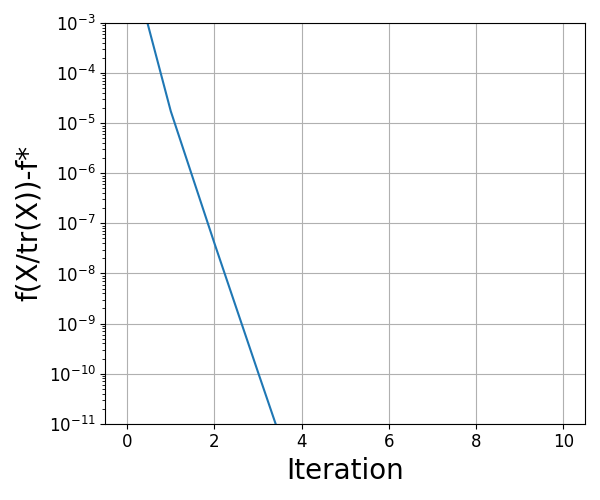
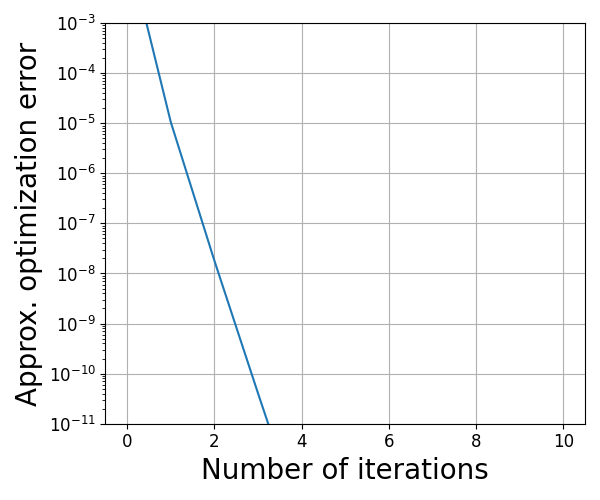
rename the label

Changed region(s): [[0.24, 0.06, 0.48, 0.84], [0.0, 0.09, 0.06, 0.81], [0.33, 0.9, 0.81, 0.96]]

diff --git a/expr_QuantumAugustin.py b/expr_QuantumAugustin.py
@@ -101,8 +101,8 @@ for alpha in alphas:
     # f(X) vs iteration with log-scale y-axis
     # plt.subplot(1, 2, 1)
     plt.plot(iterations, f_values, label=f'f(X), alpha={alpha}')
-    plt.xlabel('Iteration',fontsize=20)
-    plt.ylabel('f(X/tr(X))-f*',fontsize=20)
+    plt.xlabel('Number of iterations',fontsize=20)
+    plt.ylabel('Approx. optimization error',fontsize=20)
     plt.yscale('log')  # Set log scale for y-axis
     plt.ylim(1e-11,1e-3)
     plt.tick_params(axis='both',which='major',labelsize=12)
